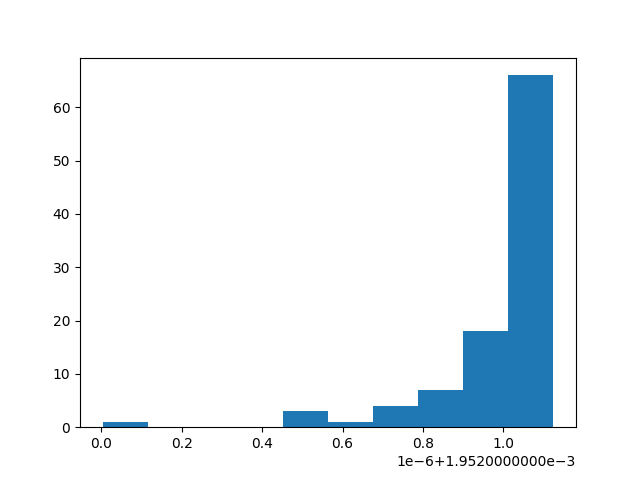
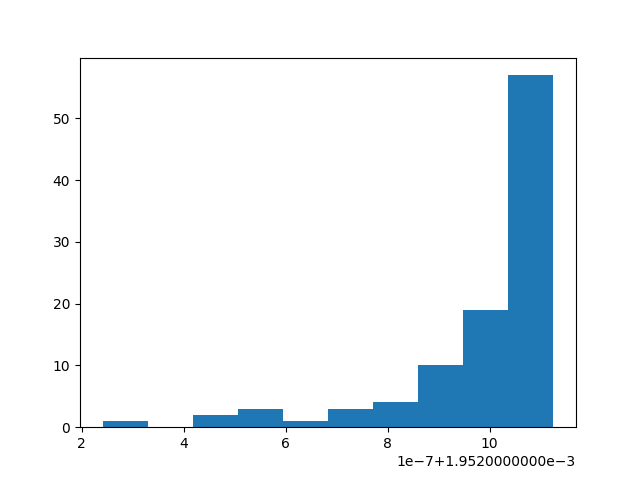
API improvement. Added synthetic collapsed data

diff --git a/main.py b/main.py
@@ -1,16 +1,10 @@
 from utils import *
 import matplotlib.pyplot as plt
 
-if __name__ == '__main__':
 
-    # constants
-    data_points = 10000
-    dim = 512
-    cluster_count = 100
-    rotation_count = 100
-
+def generate_data(data_points=1000, dim=512, rotation_count=1, generate_function=get_hypersphere_points):
     # get hyper sphere points
-    data = get_hypersphere_points(data_points, dim)
+    data = generate_function(data_points, dim)
 
     # get a random rotation matrix
     R = [generate_a_random_rotation_matrix(dim) for _ in range(rotation_count)]
@@ -23,20 +17,54 @@ if __name__ == '__main__':
     # concat
     data = np.reshape(np.stack(rotated_data, axis=0), (len(rotated_data) * data_points, -1))
     # random sample
-    data = data[np.random.choice(data_points*(rotation_count+1), data_points, replace=False)]
+    return data[np.random.choice(data_points*(rotation_count+1), data_points, replace=False)]
 
-    clusters = compute_kmeans(data, k=cluster_count)
+def get_k_means_variance(data, k):
+    """
+    Computes the variance of the k-means clustering on the given data.
+    :param data: numpy array of shape (n, d)
+    :param k: number of clusters
+    """
+    clusters = compute_kmeans(data, k=k)
 
     def get_cluster(cluster_idx):
         return get_where_index(data, clusters, cluster_idx)
 
     # get the variance of each cluster
-    var = [np.var(get_cluster(i)) for i in range(cluster_count)]
+    return [np.var(get_cluster(i)) for i in range(k)]
 
-    # compute a histogram using matplotlib
-    plt.hist(var)
-    plt.show()
 
-    #save plt to file
-    plt.savefig('var.png')
+if __name__ == '__main__':
+
+    # constants
+    data_points = 10000
+    dim = 128
+    cluster_count = 100
+    rotation_count = 1
+
+    # generate data
+    hypersphere_data = generate_data(data_points, dim, rotation_count, generate_function=get_hypersphere_points)
+    splooch_data = generate_data(data_points, dim, rotation_count, generate_function=get_splooch_points)
+
+    # interpolate between the two datasets
+    def linear_interpolate(dataset1, dataset2):
+        def interp(t):
+            output = dataset1 * (1 - t) + dataset2 * t
+            # normalize output
+            output = output / np.linalg.norm(output, axis=1).reshape(-1, 1)
+            return output
+
+        return interp
+
+    # interpolate
+    interp = linear_interpolate(hypersphere_data, splooch_data)
+    for i in range(10):
+        # get variance
+        variance = get_k_means_variance(interp(float(i)/10.), cluster_count)
+
+        # compute a histogram using matplotlib
+        plt.hist(variance)
+        plt.show()
+        plt.savefig('graphs/variance_interp_' + str(i) + '.png')
+        plt.clf()
 

diff --git a/utils.py b/utils.py
@@ -31,6 +31,36 @@ def get_hypersphere_points(set_size=1000, dim=512):
     """
     return skdim.datasets.hyperSphere(set_size, dim)
 
+def get_normalized_hypercube_points(set_size=1000, dim=512):
+    """
+    Generates a set of points on a hypercube of dimension dim.
+    """
+    output = np.array([np.random.uniform(-1, 1, dim) for _ in range(set_size)])
+    output = output / np.linalg.norm(output, axis=1).reshape(-1, 1)
+    return output
+
+def get_splooch_points(set_size=1000, dim=512, splooches=10):
+    """
+    Generates a set of points that splooch the surface of a hyper sphere
+    """
+    points_per_splooch = set_size // splooches
+    splooch_list = list()
+    for i in range(splooches):
+        splooch = get_hypersphere_points(points_per_splooch, dim)
+        random_direction = np.random.uniform(-1, 1, dim)
+        random_scale = np.random.uniform(0, 1)
+
+        splooch = splooch * random_scale + random_direction
+
+        # normalize splooch
+        splooch = splooch / np.linalg.norm(splooch, axis=1).reshape(-1, 1)
+        # append
+        splooch_list.append(splooch)
+
+    # concatenate list of numpy arrays into numpy array
+    return np.concatenate(splooch_list)
+
+
 def generate_a_random_rotation_matrix(dim=512):
     """
     Generates a random rotation matrix of dimension dim.
